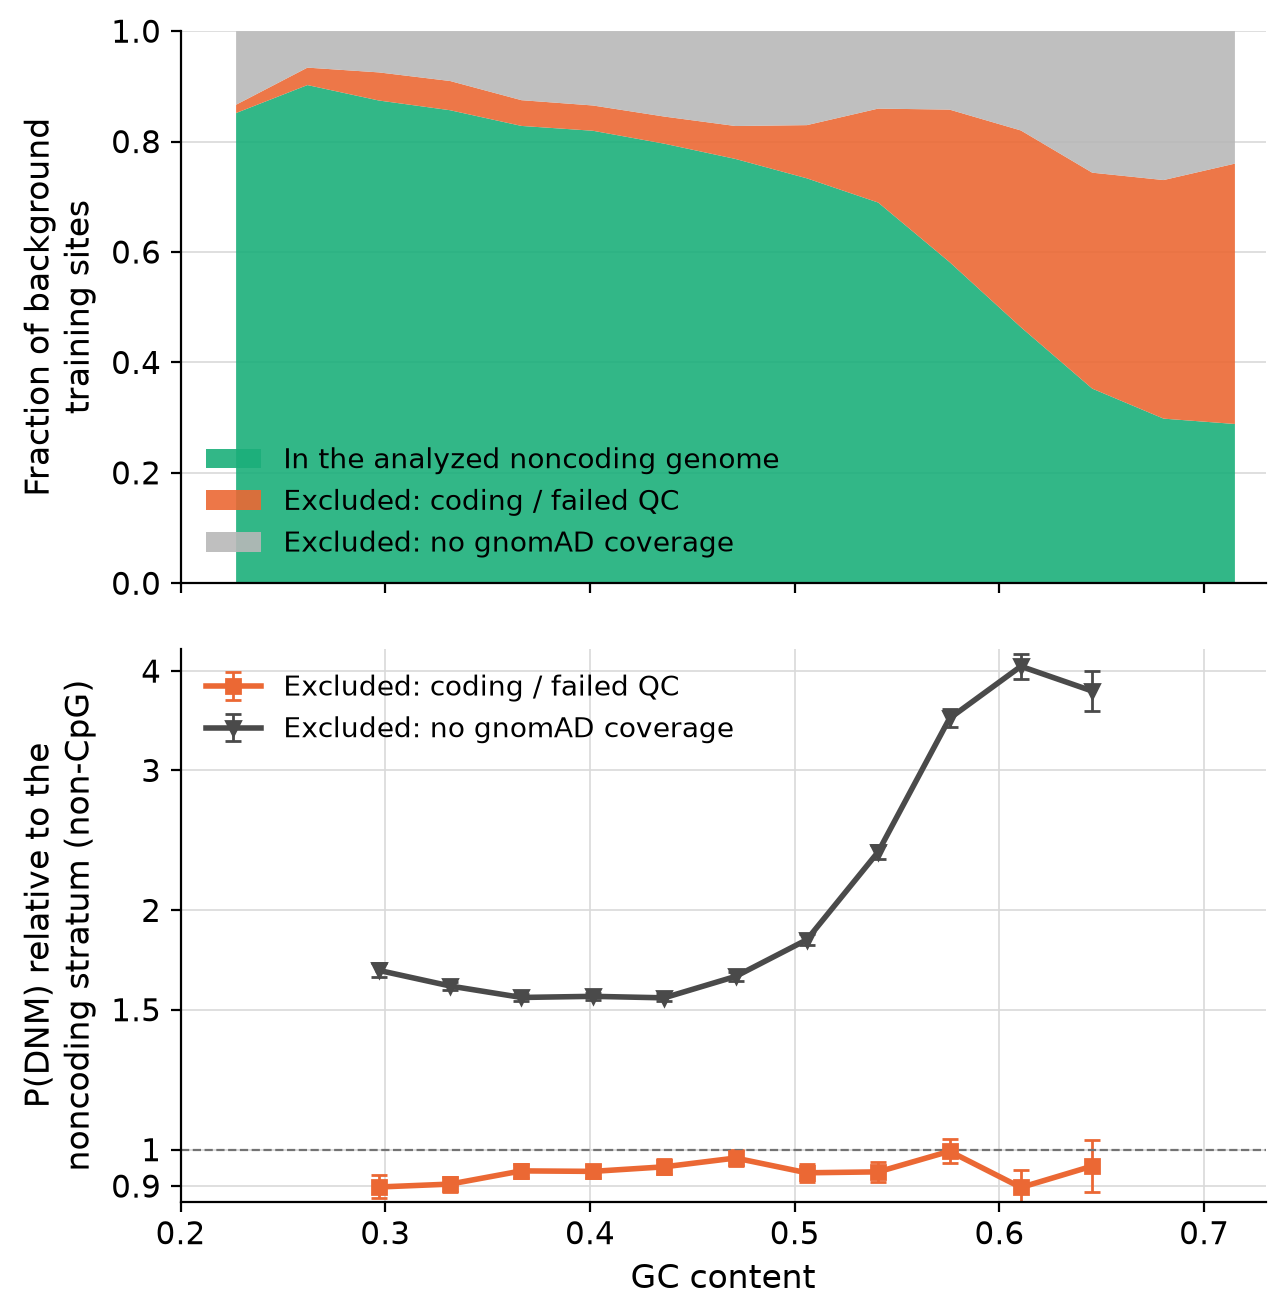
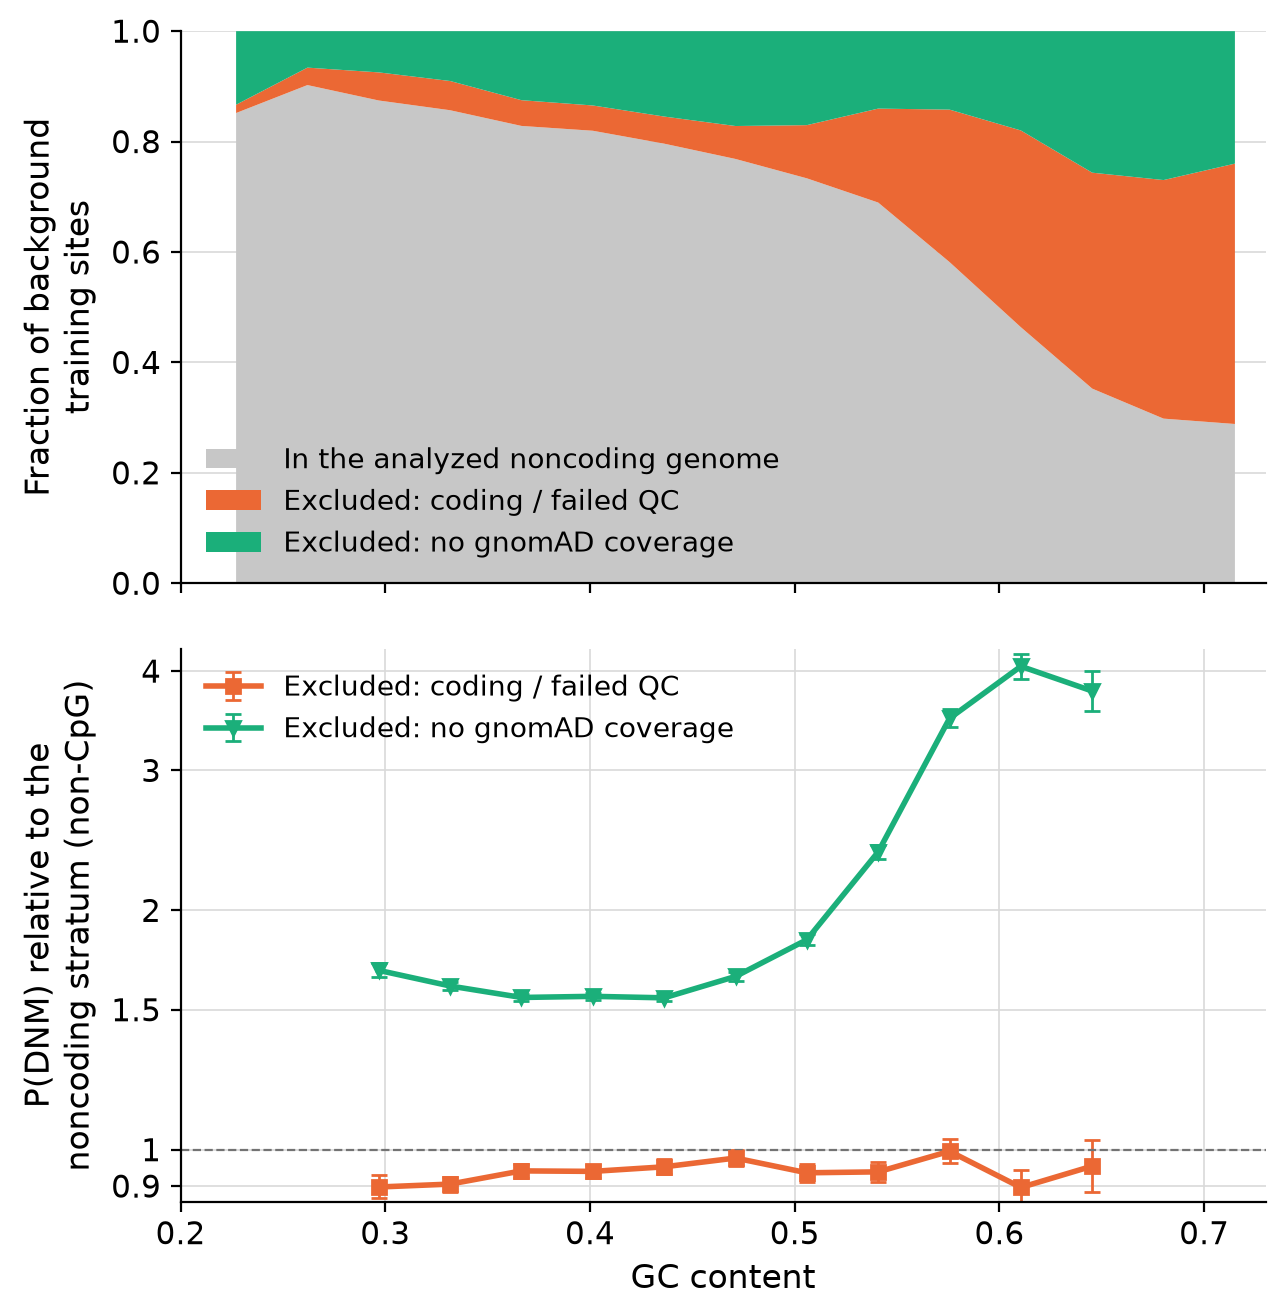
fig5 panel C: one colour per stratum across both rows
The no-coverage stratum was a light grey band in the upper row and a near-black
line in the lower one, so the two did not read as the same thing. Both rows now
take their colours and labels from a single STRATUM_COLORS/STRATUM_LABELS pair,
which is what stops them drifting again.

The analyzed stratum becomes neutral grey, per Peter's suggestion: it is the
reference the lower row divides by, and it is the one stratum with no line
there, so a saturated hue promised a curve that does not exist. That also puts
the colour on the two bands whose growth is the point.

no_coverage is aqua, not violet, although violet read better in the stack:
violet already carries the scored-population intervention through panels B, D
and E, and a fourth meaning would undo that thread. Aqua is the slot `analyzed`
just vacated, so it now collides only with panel A's depletion-rank curve -- a
different panel with its own legend, not part of a thread spanning several.

The stack is alpha=1 so a band and its line are the same hue exactly.

diff --git a/fig5/panels.py b/fig5/panels.py
@@ -120,10 +120,31 @@ def panel_r_eff(ax, binned, min_n: int = 100, xrange=(0.2, 0.73),
     _finish(ax, "Adjustment factor applied\nto expected counts, $r$", xrange, show_xlabel)
 
 
+# Panel C's two rows share one colour per stratum, defined once here so the band in the
+# upper row and the line in the lower row cannot drift apart.
+#
+# `analyzed` is deliberately neutral grey for two reasons: it is the reference the lower
+# row divides by, and it is the one stratum with no line there, so a saturated hue would
+# promise a curve that does not exist. That also puts the colour on the two bands whose
+# growth is the point.
+#
+# NOT violet for `no_coverage`, though it reads well here: violet already carries the
+# scored-population intervention through panels B, D and E, and a fourth meaning would
+# undo that thread. Aqua is the slot `analyzed` just vacated, so it collides only with
+# panel A's depletion-rank curve -- a different panel with its own legend, and not part
+# of a thread that runs across several.
+STRATUM_COLORS = {"analyzed": "0.78", "coding": "#eb6834", "no_coverage": "#1baf7a"}
+STRATUM_LABELS = {
+    "analyzed": "In the analyzed noncoding genome",
+    "coding": "Excluded: coding / failed QC",
+    "no_coverage": "Excluded: no gnomAD coverage",
+}
+# The composition table names the third category `noannot` (no row in the constraint
+# table at all), which is the same thing as `no_coverage` in the ratio table.
 COMPOSITION_STYLE = [
-    ("frac_analyzed", "#1baf7a", "In the analyzed noncoding genome"),
-    ("frac_coding", "#eb6834", "Excluded: coding / failed QC"),
-    ("frac_noannot", "0.72", "Excluded: no gnomAD coverage"),
+    (f"frac_{col}", STRATUM_COLORS[key], STRATUM_LABELS[key])
+    for key, col in (("analyzed", "analyzed"), ("coding", "coding"),
+                     ("no_coverage", "noannot"))
 ]
 
 
@@ -146,20 +167,21 @@ def panel_training_composition(ax, comp, min_n: int = 500, xrange=(0.2, 0.73),
     # which would draw a steep edge artifact at x = xrange[0] where there is no bin.
     df = df[(df["gc_mid"] >= xrange[0]) & (df["gc_mid"] <= xrange[1])].sort_values("gc_mid")
 
+    # alpha=1: the lower row draws these same colours as solid lines, and any
+    # transparency here would make the band read as a slightly different hue.
     ax.stackplot(df["gc_mid"], *[df[c] for c, _, _ in COMPOSITION_STYLE],
                  colors=[c for _, c, _ in COMPOSITION_STYLE],
-                 labels=[lab for _, _, lab in COMPOSITION_STYLE], alpha=0.9)
+                 labels=[lab for _, _, lab in COMPOSITION_STYLE], alpha=1.0)
     ax.set_ylim(0, 1)
     _finish(ax, "Fraction of background\ntraining sites", xrange, show_xlabel,
             legend_loc="lower left", grid_axis="y")
 
 
-# Same hue for the same stratum as the composition stack above it, so the two rows of
-# panel C read together: orange is the coding/failed-QC band either way, dark grey the
-# uncovered one. (The stack's grey is lighter because it is a filled area, not a line.)
+# Exactly the colours and labels of the composition stack above, taken from the same
+# dicts rather than repeated, so the band and the line for a stratum always match.
 STRATUM_STYLE = {
-    "coding": {"color": "#eb6834", "marker": "s", "label": "Excluded: coding / failed QC"},
-    "no_coverage": {"color": "#4a4a4a", "marker": "v", "label": "Excluded: no gnomAD coverage"},
+    key: {"color": STRATUM_COLORS[key], "marker": marker, "label": STRATUM_LABELS[key]}
+    for key, marker in (("coding", "s"), ("no_coverage", "v"))
 }
 
 
